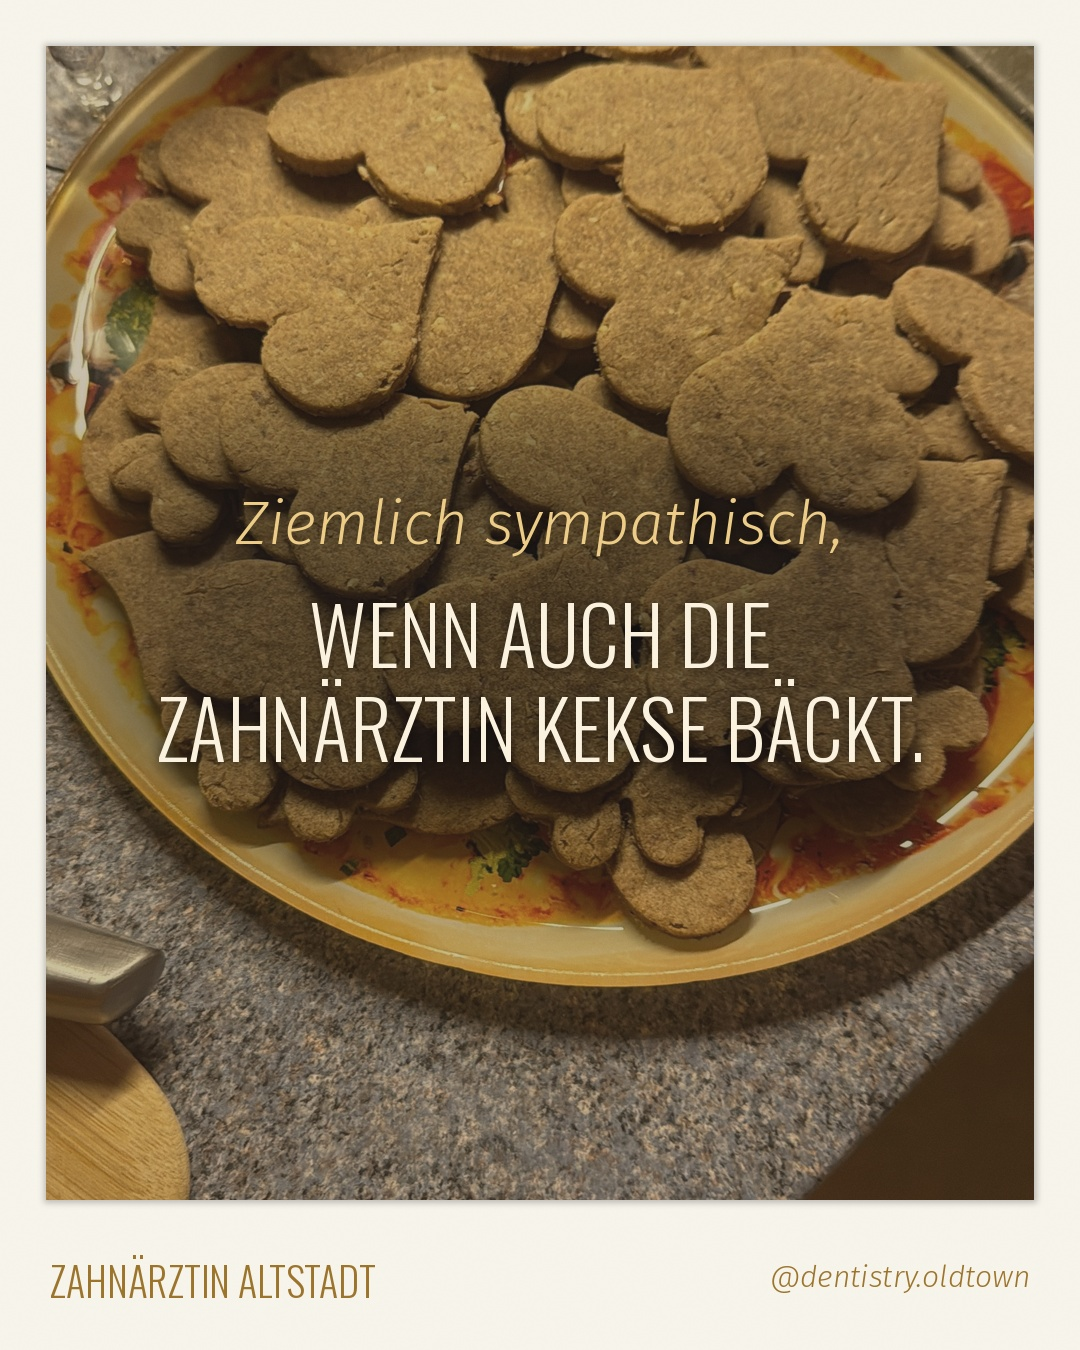
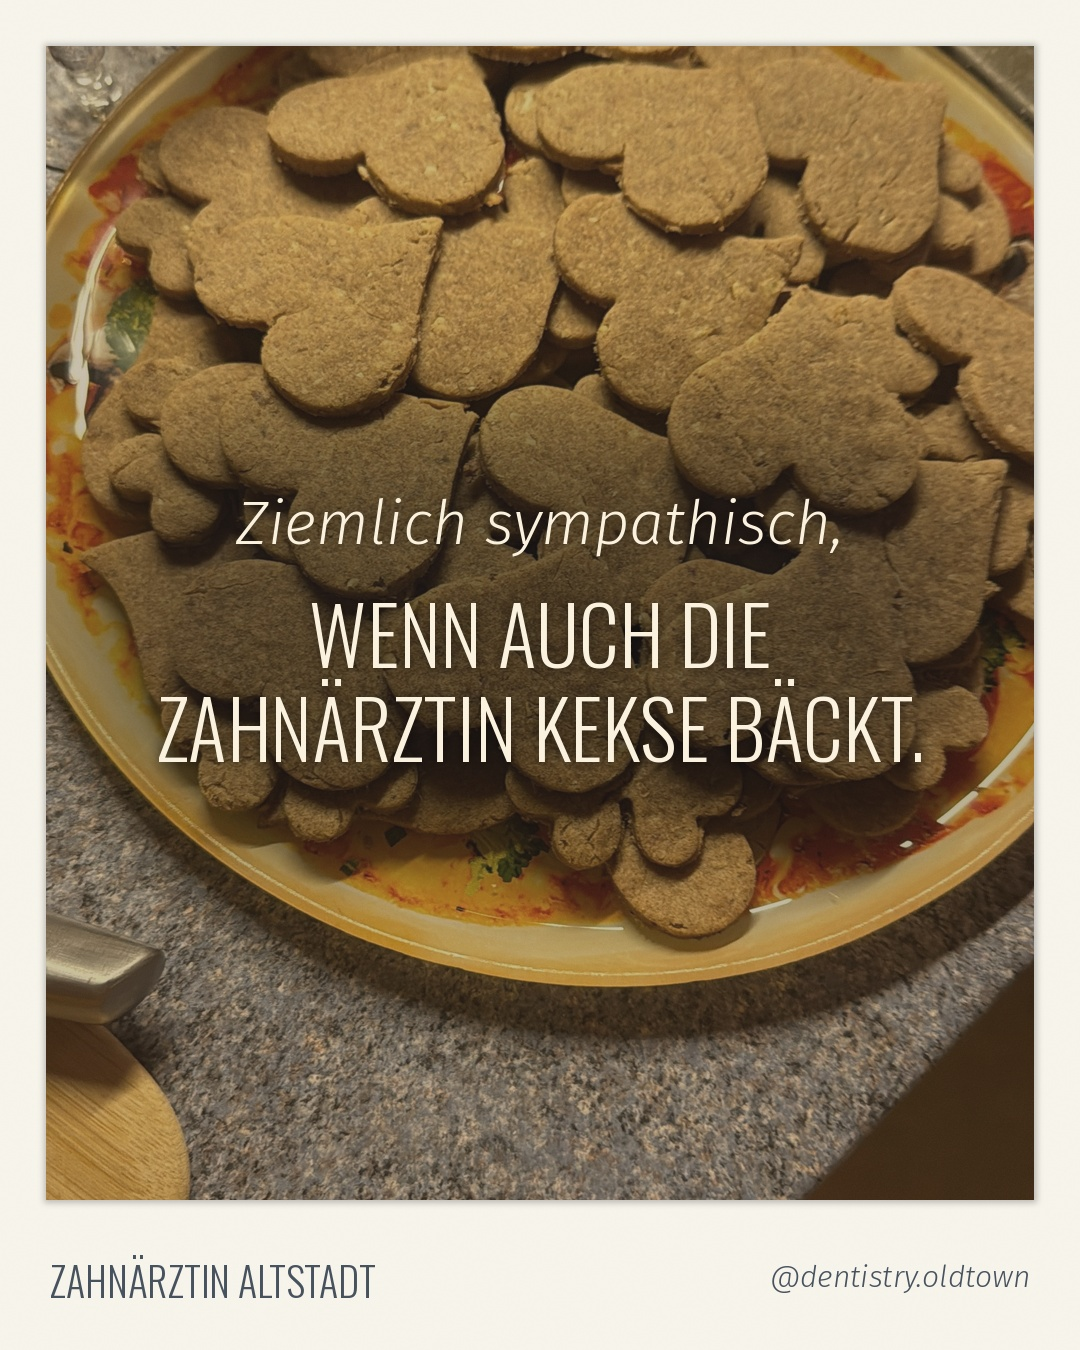
Sympathisch Advent: Original-Rahmen, Satz Vorfreude
Claude-Session: https://claude.ai/code/session_012SPZoo3349FxBHtRPxeMWn

diff --git a/AGENT.md b/AGENT.md
@@ -74,7 +74,7 @@ Idea from Neda (inspired by an orthodontist's "kinda chic to …" carousel – a
 - Any carousel scene accepts `"frame": true` (same paper frame); in the series the closing `close` slide is always framed.
 - Scene type `photo` exists: `{"type":"photo","photo":"photos/praxis/<file>.jpg","text":"wenn …","focus":[x,y],"shade":120}` (framed analog print, text on photo; "Ziemlich sympathisch," added automatically; optional "dy", "shade", "size"). Last slide: `close`. Neda's approved look: `drafts/_demo_sympathisch/` (5 photos + close).
 - Episode 1 (Fri 30.10.2026, posts/2026-10-30_serie_ziemlich-sympathisch) is done and scheduled and used all five current photos (wartezimmer, globus, voegel, blumen_1, blumen_2). Episode 2 (Fri 27.11.2026 10:00) is an ADVENT edition: Neda puts 5 Advent photos from the practice into her Google Drive folder "Insta Praxisfotos" (search Drive by that folder title, download with download_file_content, store as photos/praxis/advent_*.jpg); write calm Advent-flavoured "wenn …" lines (no promotions, no gifts/vouchers).
-  Neda-approved plan for episode 2: SAME framed analog look as episode 1, but with `"frame_ink": "gold"` in the spec (gold brand text on the frame + gold "Ziemlich sympathisch," on the photo) – sample: `drafts/sympathisch_gold/`. Photo ideas she got: fairy lights/Advent wreath at reception, fir sprig or star on the counter, a cup of tea in the waiting room, window with old-town view at dusk, candle/light bokeh. Line ideas (adapt to the actual photos): "wenn es in der Praxis schon nach Advent aussieht." · "wenn man in der hektischen Zeit kurz durchatmen darf." · "wenn jemand fragt: Und wie geht's Ihnen eigentlich?" · "wenn man auch im Dezember nicht hetzen muss." · "wenn sich ein Termin wie eine kleine Pause anfühlt." Neda already sent 3 Advent photos (photos/praxis/advent_kranz.jpg, advent_fenster.jpg, advent_kekse.jpg) – test carousel she saw: drafts/sympathisch_advent_probe/ (lines Neda saw: wreath "wenn jede Woche ein Licht mehr brennt." · window "wenn draußen die Altstadt leuchtet und drinnen jemand Zeit für Sie hat." · cookies "wenn auch die Zahnärztin Kekse bäckt." – lines must match what the photo shows and make sense on their own). Use these plus any new ones from Drive; 3 photos are enough if no more arrive. Closing slide (framed, gold): "Eine ruhige Adventszeit!" + "Ihr Team der Zahnärztin Altstadt." + practice card. From then on ask Neda (in the approval email) for new photos so the series does not look repetitive.
+  Neda-approved plan for episode 2: SAME framed analog look as episode 1 (normal frame, NO gold – Neda tried gold and chose the original look) – sample: `drafts/sympathisch_advent_probe/`. Photo ideas she got: fairy lights/Advent wreath at reception, fir sprig or star on the counter, a cup of tea in the waiting room, window with old-town view at dusk, candle/light bokeh. Line ideas (adapt to the actual photos): "wenn es in der Praxis schon nach Advent aussieht." · "wenn man in der hektischen Zeit kurz durchatmen darf." · "wenn jemand fragt: Und wie geht's Ihnen eigentlich?" · "wenn man auch im Dezember nicht hetzen muss." · "wenn sich ein Termin wie eine kleine Pause anfühlt." Neda already sent 3 Advent photos (photos/praxis/advent_kranz.jpg, advent_fenster.jpg, advent_kekse.jpg) – test carousel she saw: drafts/sympathisch_advent_probe/ (lines Neda saw: wreath "wenn die Vorfreude mit jeder Kerze wächst." · window "wenn draußen die Altstadt leuchtet und drinnen jemand Zeit für Sie hat." · cookies "wenn auch die Zahnärztin Kekse bäckt." – lines must match what the photo shows and make sense on their own). Use these plus any new ones from Drive; 3 photos are enough if no more arrive. Closing slide (framed): "Eine ruhige Adventszeit!" + "Ihr Team der Zahnärztin Altstadt." + practice card. From then on ask Neda (in the approval email) for new photos so the series does not look repetitive.
 
 ## Adventskalender 2026 (Neda-approved 20.10.2026) – 24 Türchen, 1.–24.12., daily 18:00
 - Spec: `"theme": "advent"` and `"door": <n>` (dark green Advent look, gold door badge). Approved sample: `drafts/advent_muster/` (Türchen 1). Alternate formats: odd doors = REEL (12–17 s, attention rules apply), even doors = carousel (5–6 slides). Close slide body: "Morgen öffnen wir Türchen Nummer <n+1>." (door 24 different, see below).
